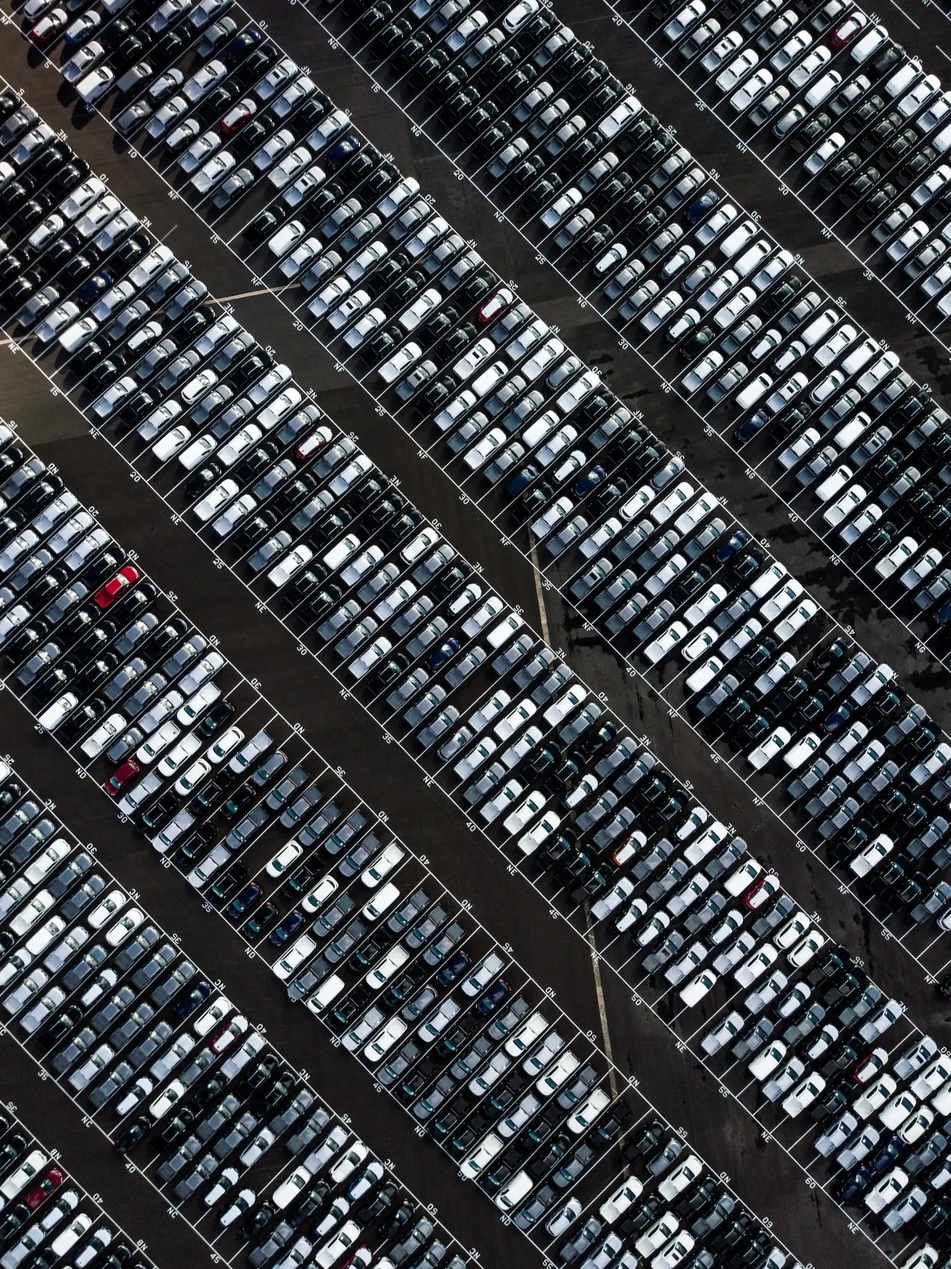
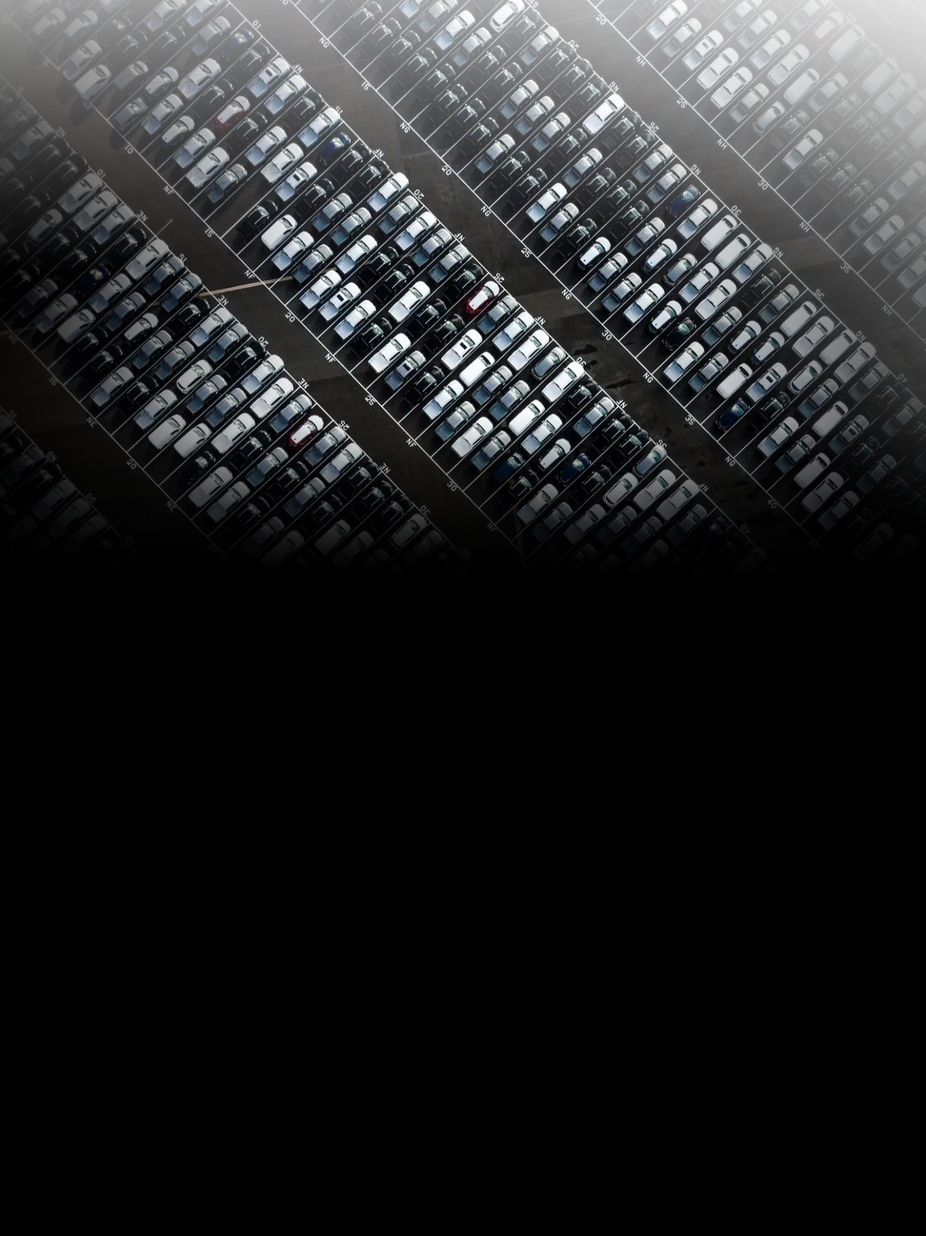
finish section Hero

diff --git a/src/components/Hero/Hero.tsx b/src/components/Hero/Hero.tsx
@@ -2,12 +2,27 @@ import stylesBootstrap from 'bootstrap/dist/css/bootstrap.module.css';
 import styles from './Hero.module.css';
 import cn from 'classnames';
 import Separator from '../Separator/Separator';
+import Button from '../Button/Button';
 
 function Hero() {
   return (
     <>
-      <section className={stylesBootstrap['']}>
-        <div className={cn(styles['hero'])}>EEEEEEEEEE</div>
+      <section className={(stylesBootstrap['col-12'], styles['section-hero'])}>
+        <div
+          className={cn(
+            styles['hero'],
+            stylesBootstrap['d-flex'],
+            stylesBootstrap['align-items-center'],
+            stylesBootstrap['justify-content-center'],
+            stylesBootstrap['text-center']
+          )}
+        >
+          <div className={cn(stylesBootstrap['col-5'], styles['heading'])}>
+            <h1>Авто из Японии, Кореи и Китая под заказ</h1>
+            <h2>Комиссия составляет 15 000 ₽</h2>
+            <Button>Оставить заявку</Button>
+          </div>
+        </div>
         <Separator />
       </section>
     </>

diff --git a/src/components/Hero/Hero.module.css b/src/components/Hero/Hero.module.css
@@ -1,7 +1,29 @@
+.section-hero {
+  height: 800px;
+}
+
 .hero {
-  height: 750px;
-  background-image: url('/public/hero1.webp');
+  height: 100%;
+  background-image: url('/public/hero.png');
   background-size: cover;
-  background-position: 50% 30%;
+  background-position: 0% 70%;
   background-repeat: no-repeat;
+  color: var(--white-color);
+}
+
+.heading,
+h1,
+h2 {
+  font-family: Roboto, sans-serif;
+  font-weight: 700;
+  font-style: normal;
+  font-size: 68px;
+  margin-bottom: 24px;
+}
+
+h2 {
+  font-family: Stem, sans-serif;
+  text-shadow: 0px 0px 30px;
+  font-size: 28px;
+  margin-bottom: 48px;
 }

diff --git a/src/components/Button/Button.module.css b/src/components/Button/Button.module.css
@@ -1,17 +1,20 @@
 .button {
   border-radius: 6px;
-  padding: 8px 30px;
+  padding: 16px 30px;
   cursor: pointer;
-  transition: background 0.25s;
-  font-size: 16px;
+  font-weight: 400;
+  transition: box-shadow 1s;
+  font-size: 20px;
   border: none;
   color: var(--white-color);
 }
 
 .accent {
-  background: var(--primary-color);
+  background: var(--bs-black);
+  color: var(--white-color);
+  box-shadow: var(--black-hover-box-shadow);
 }
 
 .accent:hover {
-  background: var(--primary-hover-color);
+  box-shadow: var(--white-hover-box-shadow);
 }

diff --git a/src/index.css b/src/index.css
@@ -2,11 +2,10 @@
   --font1: 'Assistant', sans-serif;
   --font2: 'Roboto Serif', sans-serif;
   --text-color: #000000;
-  --primary-color: #fe724c;
-  --primary-hover-color: #df6442;
-  --text-secondary: #5b5b5e;
-  --white-color: #ffffff;
-  --separator-color: #d4d6e0;
+  --white-color: white;
+  --redus-color: rgba(255, 0, 0, 1);
+  --white-hover-box-shadow: rgba(255, 255, 255, 1) 0px 0px 20px 2px;
+  --black-hover-box-shadow: rgba(0, 0, 0, 1) 0px 0px 20px 2px;
 }
 
 body {

diff --git a/src/components/Separator/Separator.module.css b/src/components/Separator/Separator.module.css
@@ -1,10 +1,9 @@
 .custom {
-  height: 30px;
+  height: 66px;
   background: linear-gradient(
     to top,
     var(--bs-white) 40%,
     rgba(255, 0, 0, 0.777) 65%,
-
-    var(--bs-black) 90%
+    rgba(0, 0, 0, 0.98) 85%
   );
 }

diff --git a/src/components/Separator/Separator.tsx b/src/components/Separator/Separator.tsx
@@ -1,7 +1,7 @@
 import styles from './Separator.module.css';
 
 function Separator() {
-  return <div className={styles['custom']}></div>;
+  return <div className={styles.custom}></div>;
 }
 
 export default Separator;
